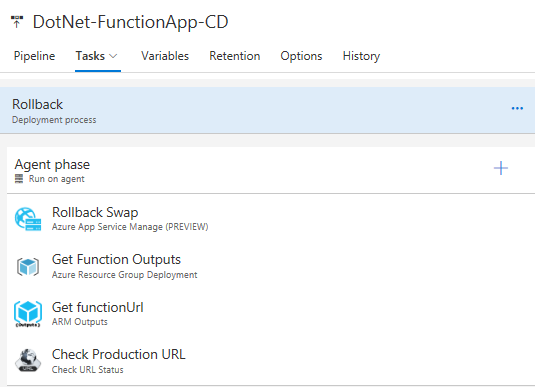
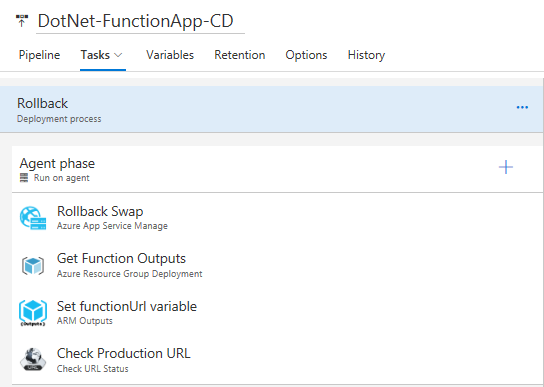
Add ARM Confition for optional Production deployment while deploying Staging Slot.

diff --git a/docs/DotNet-FunctionApp-CD.md b/docs/DotNet-FunctionApp-CD.md
@@ -34,7 +34,9 @@ TODO
 - ReleaseConfiguration = Release
 - ReleasePlatform = Any CPU
 - functionUrl = 
-  - Empty, because it will be set by the "Get FunctionUrl" task.
+  - Empty, because it will be set by the "Set functionUrl variable" task.
+- deployProductionWhileDeployingStaging = 
+  - Empty, because it will be set by the "Set deployProductionWhileDeployingStaging variable" task.
 - FunctionAppName = set appropriate
 - FunctionName = SampleHelloDotNetFunction
 - FunctionUrlTestQueryString = &name=test
@@ -70,17 +72,14 @@ TODO
   - Script Type = Script File Path
   - Script Path = $(System.DefaultWorkingDirectory)/DotNet-FunctionApp-CI/scripts/[AddResourceGroupAllowedLocationsPolicy.ps1](../infra/scripts/AddResourceGroupAllowedLocationsPolicy.ps1)
   - Script Arguments = -ResourceGroupName $(ResourceGroupName)
-- Ensure Production Function App exists
-  - Type = Azure Resource Group Deployment
-  - Version = 2.*
+- Set deployProductionWhileDeployingStaging variable
+  - Type = Azure PowerShell
+  - Version = 1.*
+  - Azure Connection Type = Azure Resource Manager
   - Azure Subscription = set appropriate
-  - Action = Create Or Update Resource Group
-  - Resource Group = $(ResourceGroupName)
-  - Location = $(Location)
-  - Template location = Linked artifact
-  - Template = $(System.DefaultWorkingDirectory)/DotNet-FunctionApp-CI/infra/[deploy.json](../infra/templates/deploy.json)
-  - Override Template Parameters = -functionAppName $(FunctionAppName)
-  - Deployment Mode = Incremental
+  - Script Type = Script File Path
+  - Script Path = $(System.DefaultWorkingDirectory)/DotNet-FunctionApp-CI/scripts/[SetDeployProductionWhileDeployingStagingVariableValue.ps1](../infra/scripts/SetDeployProductionWhileDeployingStagingVariableValue.ps1)
+  - Script Arguments = -WebAppName $(ResourceGroupName)
 - Provision Staging
   - Type = Azure Resource Group Deployment
   - Version = 2.*
@@ -114,7 +113,7 @@ TODO
   - Template = $(System.DefaultWorkingDirectory)/DotNet-FunctionApp-CI/infra/[get-function-outputs-slot.json](../infra/templates/get-function-outputs-slot.json)
   - Override Template Parameters = -functionAppName $(FunctionAppName) -functionName $(FunctionName) -slotName $(SlotName)
   - Deployment Mode = Incremental
-- Get functionUrl
+- Set functionUrl variable
   - Type = [ARM Outputs](https://marketplace.visualstudio.com/items?itemName=keesschollaart.arm-outputs)
   - Version = 1.*
   - Azure Connection Type = Azure Resource Manager
@@ -124,7 +123,7 @@ TODO
 - Check Staging URL
   - Type = [Check URL Status](https://marketplace.visualstudio.com/items?itemName=saeidbabaei.checkUrl)
   - Version = 1.*
-  - URL = $(FunctionUrl)$(FunctionUrlTestQueryString)
+  - URL = $(functionUrl)$(FunctionUrlTestQueryString)
 - Replace tokens in IntegrationTests config file
   - Type = [Replace Tokens](https://marketplace.visualstudio.com/items?itemName=qetza.replacetokens)
   - Version = 2.*
@@ -191,7 +190,7 @@ TODO
   - Template = $(System.DefaultWorkingDirectory)/DotNet-FunctionApp-CI/infra/[get-function-outputs.json](../infra/templates/get-function-outputs.json)
   - Override Template Parameters = -functionAppName $(FunctionAppName) -functionName $(FunctionName)
   - Deployment Mode = Incremental
-- Get functionUrl
+- Set functionUrl variable
   - Type = [ARM Outputs](https://marketplace.visualstudio.com/items?itemName=keesschollaart.arm-outputs)
   - Version = 1.*
   - Azure Connection Type = Azure Resource Manager
@@ -201,7 +200,7 @@ TODO
 - Check Production URL
   - Type = [Check URL Status](https://marketplace.visualstudio.com/items?itemName=saeidbabaei.checkUrl)
   - Version = 1.*
-  - URL = $(FunctionUrl)$(FunctionUrlTestQueryString)
+  - URL = $(functionUrl)$(FunctionUrlTestQueryString)
 
 ### General remark
 
@@ -233,10 +232,28 @@ This environment should be used just if necessary when the bad things happened i
   - Resource Group = $(ResourceGroupName)
   - Source Slot = $(SlotName)
   - Swap with Production = true
+- Get Function Outputs
+  - Type = Azure Resource Group Deployment
+  - Version = 2.*
+  - Azure Subscription = set appropriate
+  - Action = Create Or Update Resource Group
+  - Resource Group = $(ResourceGroupName)
+  - Location = $(Location)
+  - Template location = Linked artifact
+  - Template = $(System.DefaultWorkingDirectory)/DotNet-FunctionApp-CI/infra/[get-function-outputs.json](../infra/templates/get-function-outputs.json)
+  - Override Template Parameters = -functionAppName $(FunctionAppName) -functionName $(FunctionName)
+  - Deployment Mode = Incremental
+- Set functionUrl variable
+  - Type = [ARM Outputs](https://marketplace.visualstudio.com/items?itemName=keesschollaart.arm-outputs)
+  - Version = 1.*
+  - Azure Connection Type = Azure Resource Manager
+  - AzureRM Subscription = set appropriate
+  - Resource Group = $(ResourceGroupName)
+  - Outputs to process = functionUrl
 - Check Production URL
   - Type = [Check URL Status](https://marketplace.visualstudio.com/items?itemName=saeidbabaei.checkUrl)
   - Version = 1.*
-  - URL = https://$(FunctionAppName).azurewebsites.net/api/$(FunctionName)?name=test
+  - URL = $(functionUrl)$(FunctionUrlTestQueryString)
 
 # Deploy to Azure buttons
 

diff --git a/README.md b/README.md
@@ -13,8 +13,9 @@ TOC
 # History of changes
 
 - August 2017
+    - Implement [https://aka.ms/armconditions](https://aka.ms/armconditions) for the first Staging/CD's VSTS task to avoid deploying Production if it already exists. We don't want to impact existing Production while we are taking care about Staging.
     - Add more operational protection with Resource Group Policies - [PR#2](https://github.com/mathieu-benoit/dot-net-on-azure-function-app/pull/2)
-    - Convert MSTest projects on to xUnit - [PR#1](https://github.com/mathieu-benoit/dot-net-on-azure-function-app/pull/1)
+    - Convert MSTest projects to xUnit - [PR#1](https://github.com/mathieu-benoit/dot-net-on-azure-function-app/pull/1)
 - July 2017
     - Initial setup.
 
@@ -69,7 +70,6 @@ Here are the DevOps practices highlighted within this CD pipeline:
 # Alternatives and potential further considerations
 
 - Improvements
-    - Implement [https://aka.ms/armconditions](https://aka.ms/armconditions) for the first Staging/CD's VSTS task to avoid deploying Production if it already exists.
     - Instead of allowing 'anonymous' request, setup another AuthorizationLevel for security reason. There is an associated known issue logged [here](https://github.com/Azure/azure-webjobs-sdk-script/issues/1752). See my associated stand-by [PR#3](https://github.com/mathieu-benoit/dot-net-on-azure-function-app/pull/3).
     - [Configure VSTS and Microsoft Teams](https://almvm.azurewebsites.net/labs/vsts/teams/) (or Slack or HipChat, etc.) to add more collaboration by setting up notifications once a work item is updated, a commit is done, a build or release or done, etc.
     - Instead of just having a Production environment with its staging slot, having a QA environment with its associated staging too.
